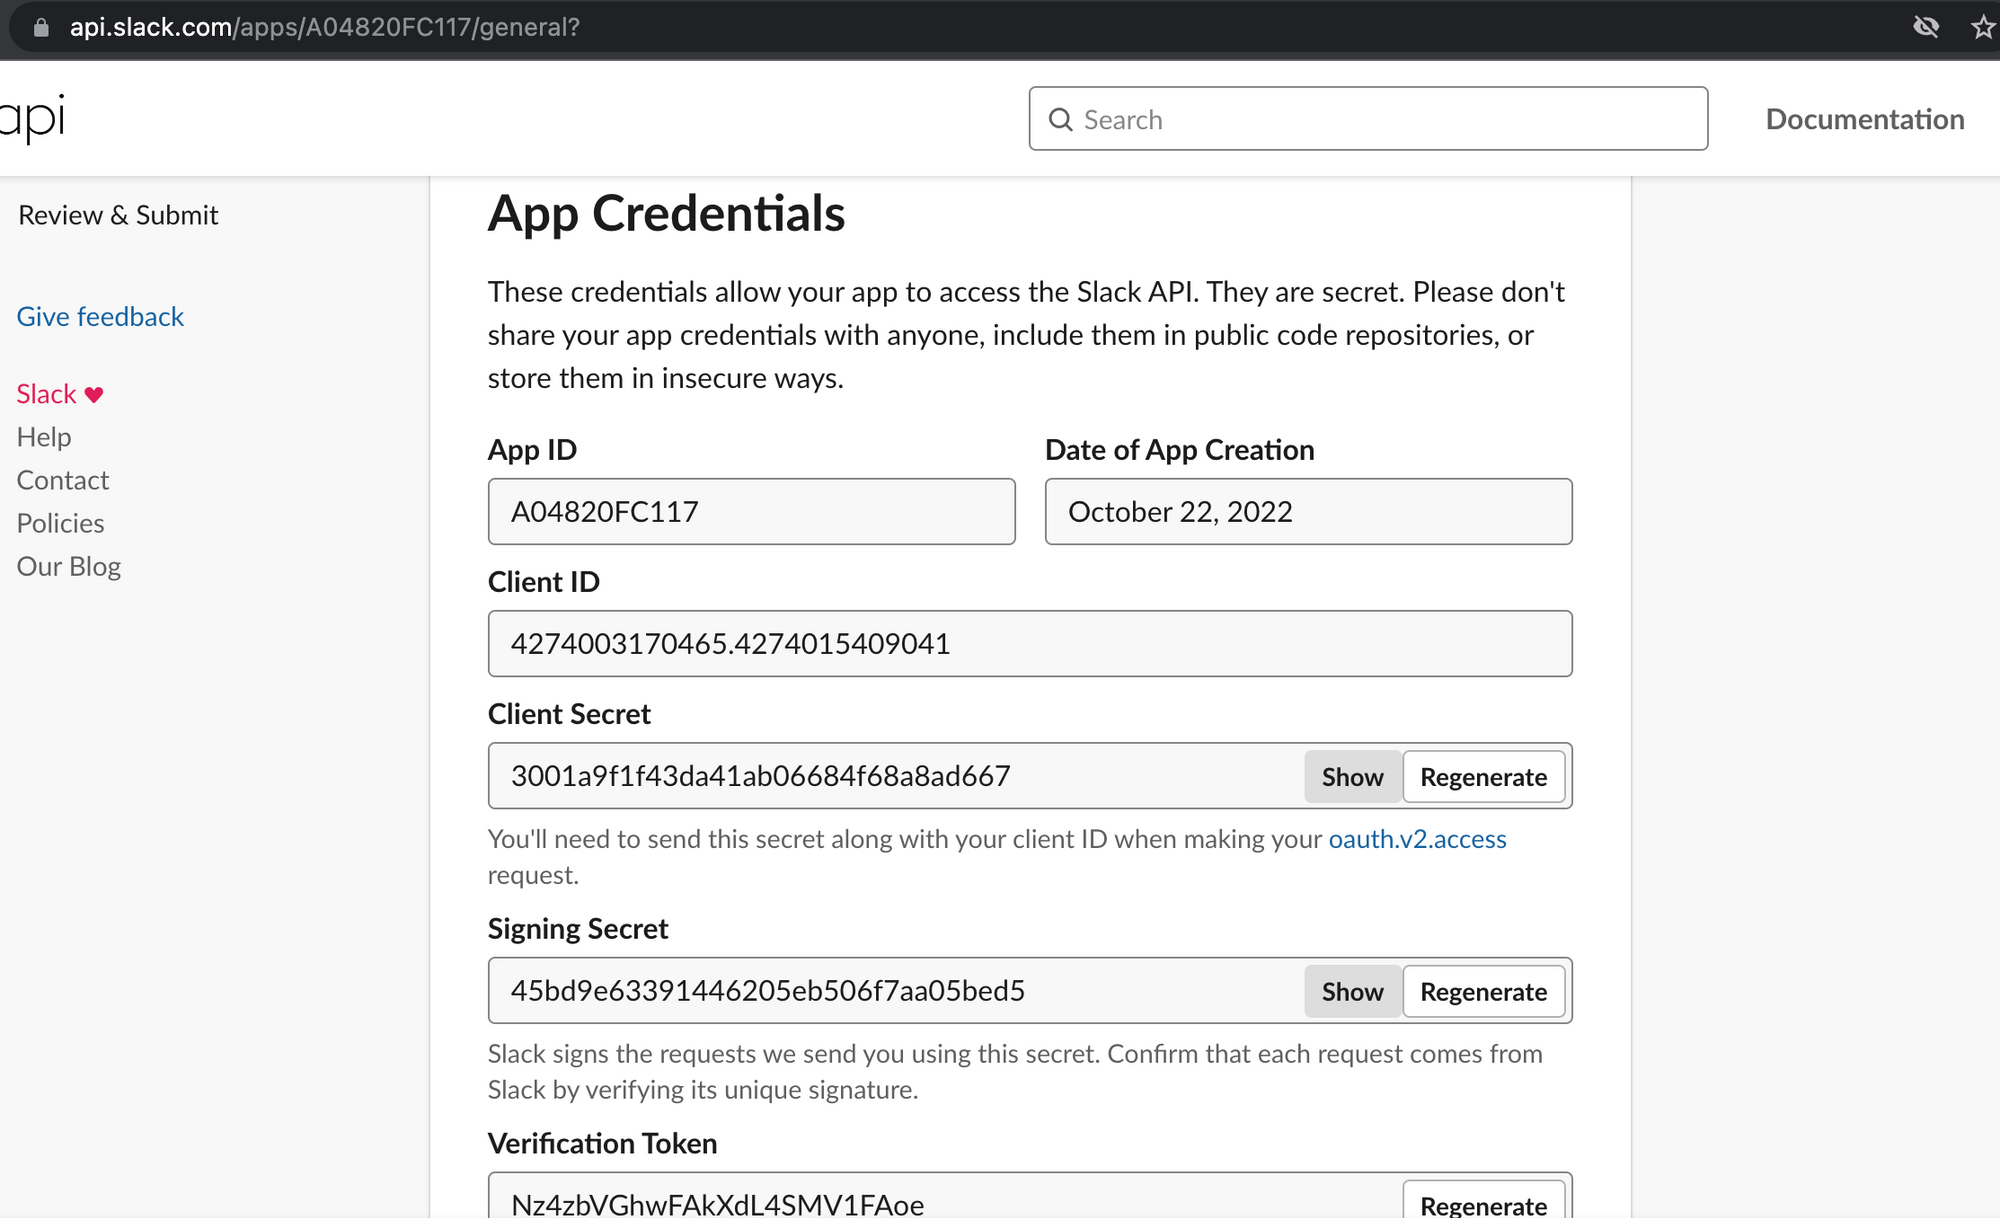
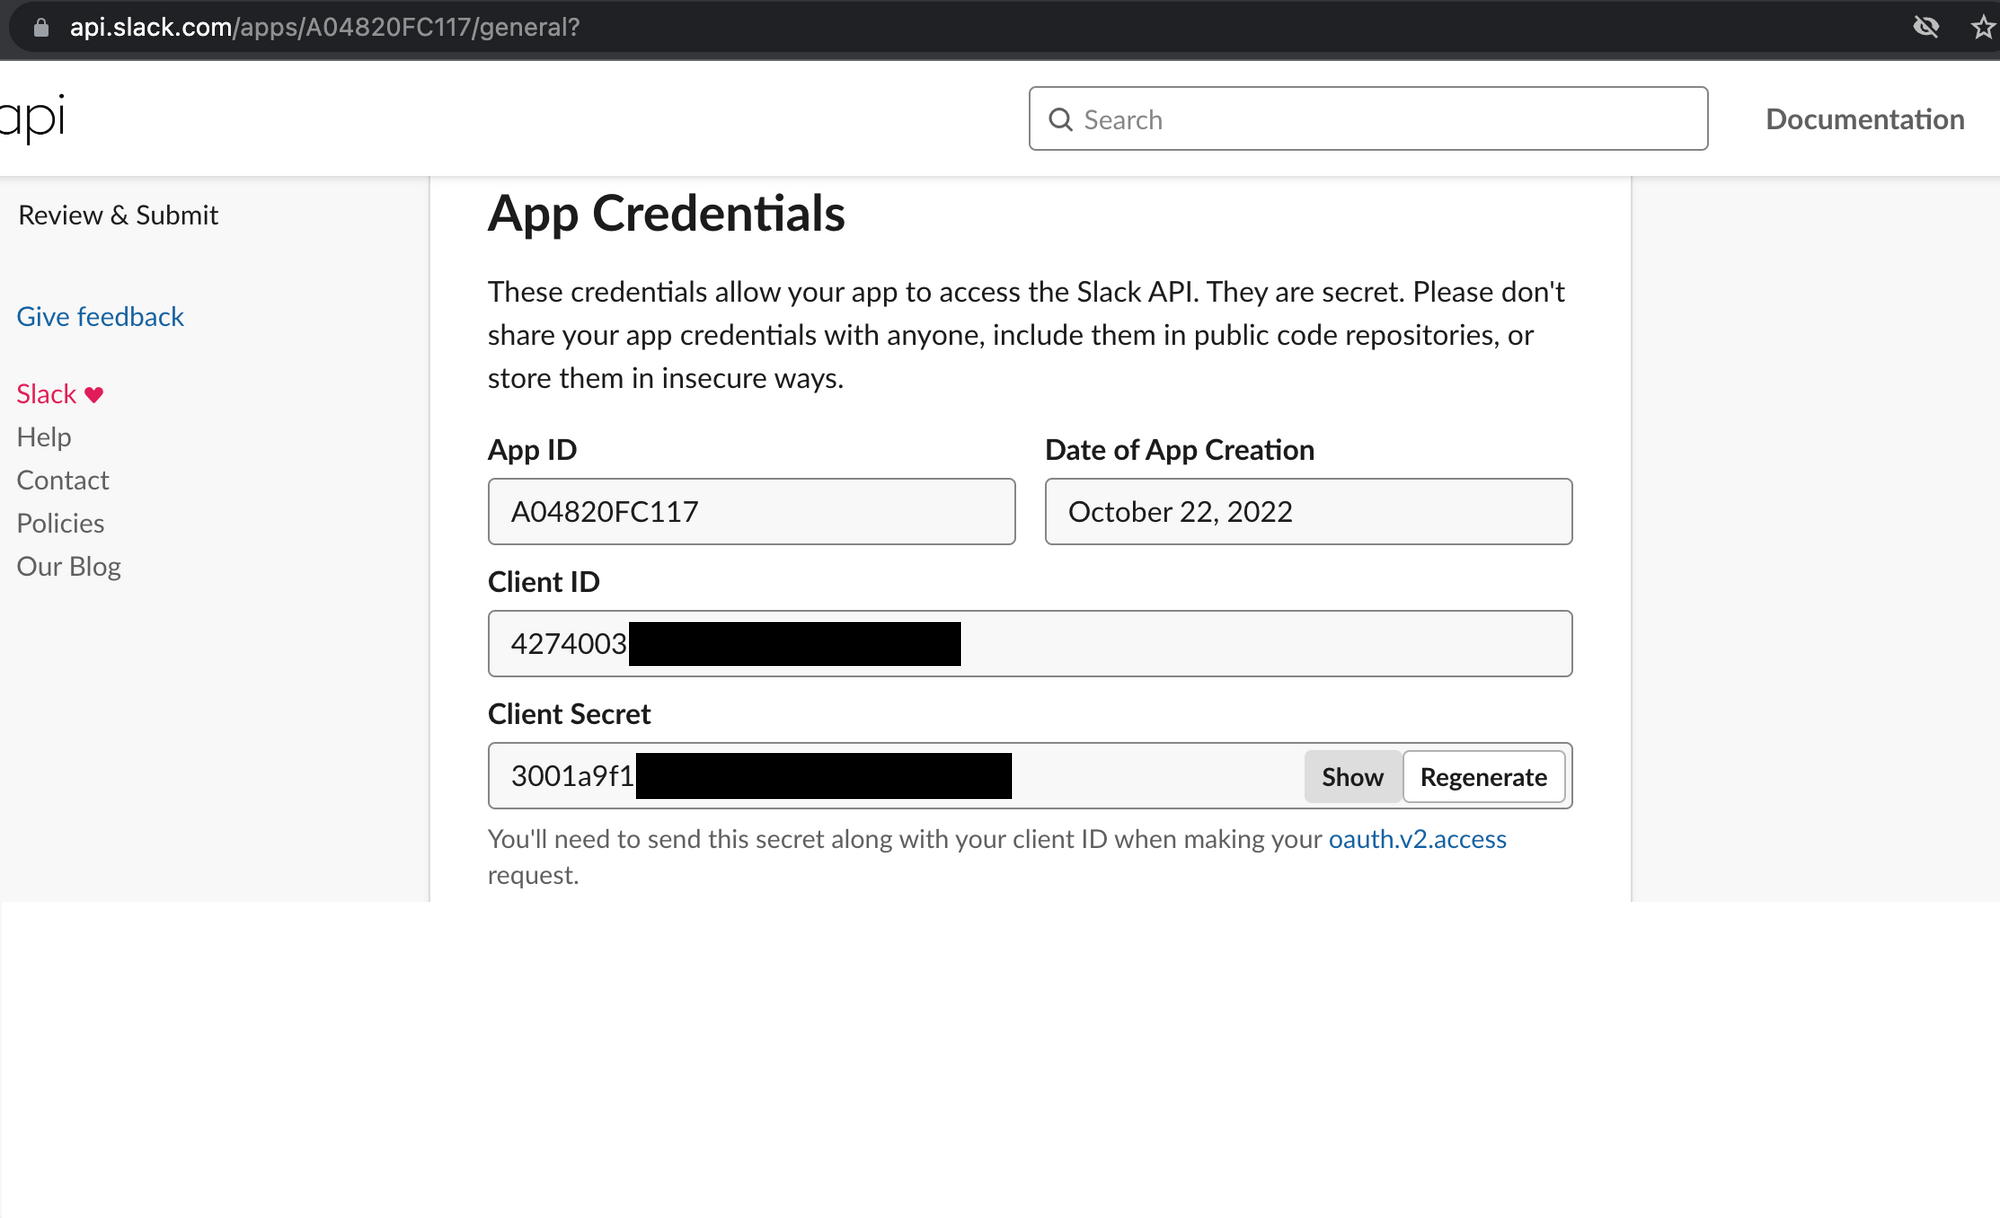
refactor: client_id, client_secret 가림

diff --git a/src/content/post/2022-10-22-slack-login-and-alarm.md b/src/content/post/2022-10-22-slack-login-and-alarm.md
@@ -32,7 +32,7 @@ Slack Authorization Server의 엔드포인트
 ```
 GET https://slack.com/openid/connect/authorize?
  scope=email openid profile
-&client_id=4274003170465.4274015409041
+&client_id=4274003xxxxxx.xxxxxxxxxxxxx
 &redirect_uri=https://kkogkkog.com/redirect
 &response_type=code
 ```
@@ -48,8 +48,8 @@ GET https://kkogkkog.com/redirect?code=12345678.90ab
 POST https://slack.com/api/openid.connect.token
 Content-Type: application/x-www-form-urlencoded;charset=UTF-8
 
-client_id="4274003170465.4274015409041"
-&client_secret="3001a9f1f43da41ab06684f68a8ad667"
+client_id="4274003xxxxxx.xxxxxxxxxxxxx"
+&client_secret="3001a9f1xxxxxxxxxxxxxxxxxxxxxxxx"
 &redirect_uri="https://kkogkkog.com/redirect"
 &code="12345678.90ab"
 ```
@@ -147,8 +147,8 @@ private SlackOpenIdConnectTokenResponse slackOpenIdConnectToken(final String cod
         String requestUrl = "https://slack.com/api/openid.connect.token";
 
         MultiValueMap<String, String> parameters = new LinkedMultiValueMap<>();
-        parameters.add("client_id", "4274003170465.4274015409041");
-        parameters.add("client_secret", "3001a9f1f43da41ab06684f68a8ad667");
+        parameters.add("client_id", "4274003xxxxxx.xxxxxxxxxxxxx");
+        parameters.add("client_secret", "3001a9f1xxxxxxxxxxxxxxxxxxxxxxxx);
         parameters.add("redirect_uri", "https://kkogkkog.com/redirect");
         parameters.add("code", code);
 
@@ -226,7 +226,7 @@ private SlackOpenIdConnectUserInfo slackConnectUserInfo(final String token) {
 1. Add To Slack 버튼을 눌러 Slack Authorization Server의 엔드포인트로 접속하여 앱 설치를 승인합니다.
 ```
 GET https://slack.com/oauth/v2/authorize?
-client_id=4274003170465.4274015409041
+client_id=4274003xxxxxx.xxxxxxxxxxxxx
 &scope=chat:write,users:read,users:read.email
 &user_scope=openid,profile,email
 ```
@@ -241,8 +241,8 @@ GET https://kkogkkog.com/redirect/download?code=12345678.90ab
 POST https://slack.com/api/oauth.v2.access
 Content-Type: application/x-www-form-urlencoded;charset=UTF-8
 
-client_id="4274003170465.4274015409041"
-&client_secret="3001a9f1f43da41ab06684f68a8ad667"
+client_id="4274003xxxxxx.xxxxxxxxxxxxx"
+&client_secret="3001a9f1xxxxxxxxxxxxxxxxxxxxxxxx"
 &redirect_uri="https://kkogkkog.com/redirect/download"
 &code="12345678.90ab"
 ```
